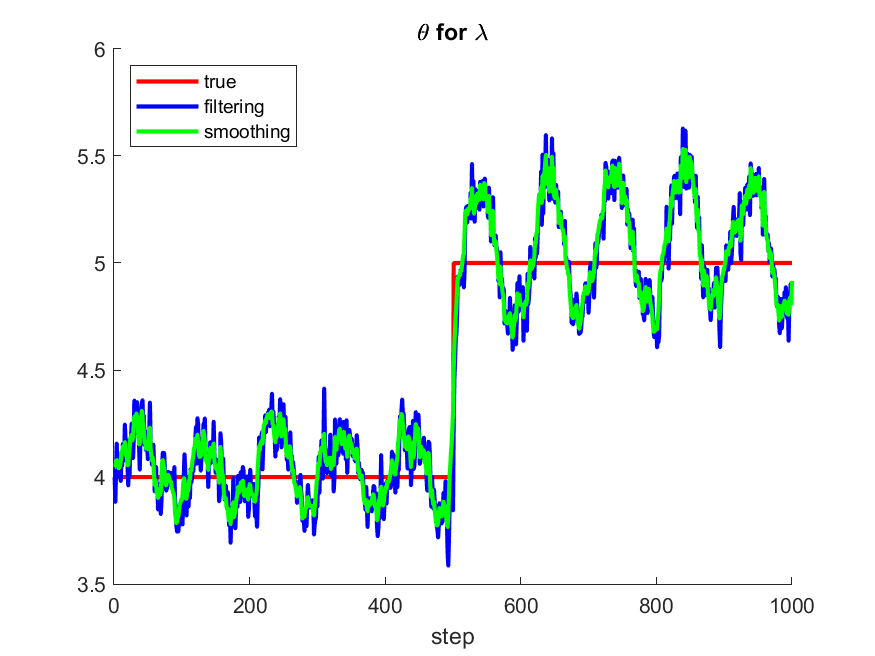
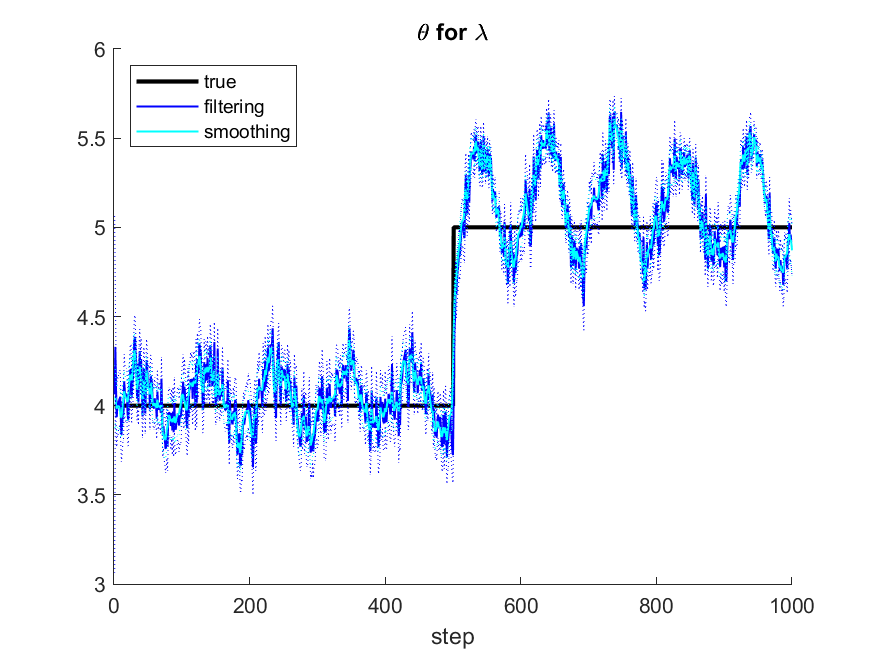
newton initial

diff --git a/demo.m b/demo.m
@@ -1,4 +1,4 @@
-rng(123)
+rng(12)
 
 %% demo 1: step lambda + step nu
 T = 10;
@@ -56,11 +56,11 @@ plot(theo_mlogy)
 hold off
 
 [theta_fit1,W_fit1] =...
-    ppafilt_compoisson(spk_vec,X_lam,G_nu,theta_true(1, :)',...
+    ppafilt_compoisson(spk_vec,X_lam,G_nu,...
     eye(2),eye(2),dt*eye(2),dt);
 
 [theta_fit2,W_fit2] =...
-    ppasmoo_compoisson(spk_vec,X_lam,G_nu,theta_true(1, :)',...
+    ppasmoo_compoisson(spk_vec,X_lam,G_nu,...
     eye(2),eye(2),dt*eye(2),dt);
 
 lam_fit1 = exp(X_lam.*theta_fit1(1, :)');
@@ -70,10 +70,14 @@ nu_fit2 = exp(G_nu.*theta_fit2(2, :)');
 
 theta1 = figure;
 hold on
-plot(theta_true(:, 1), 'r', 'LineWidth', 2)
-plot(theta_fit1(1, :), 'b', 'LineWidth', 2)
-plot(theta_fit2(1, :), 'g', 'LineWidth', 2)
-legend('true', 'filtering', 'smoothing', 'Location','northwest')
+l1 = plot(theta_true(:, 1), 'k', 'LineWidth', 2);
+l2 = plot(theta_fit1(1, :), 'b', 'LineWidth', 1);
+l3 = plot(theta_fit2(1, :), 'c', 'LineWidth', 1);
+plot(theta_fit1(1, :) + sqrt(squeeze(W_fit1(1, 1, :)))', 'b:', 'LineWidth', .5)
+plot(theta_fit1(1, :) - sqrt(squeeze(W_fit1(1, 1, :)))', 'b:', 'LineWidth', .5)
+plot(theta_fit2(1, :) + sqrt(squeeze(W_fit2(1, 1, :)))', 'c:', 'LineWidth', .5)
+plot(theta_fit2(1, :) - sqrt(squeeze(W_fit2(1, 1, :)))', 'c:', 'LineWidth', .5)
+legend([l1 l2 l3], 'true', 'filtering', 'smoothing', 'Location','northwest');
 title('\theta for \lambda')
 xlabel('step')
 hold off
@@ -81,10 +85,14 @@ saveas(theta1, 'theta1_1.png')
 
 theta2 = figure;
 hold on
-plot(theta_true(:, 2), 'r', 'LineWidth', 2)
-plot(theta_fit1(2, :), 'b', 'LineWidth', 2)
-plot(theta_fit2(2, :), 'g', 'LineWidth', 2)
-legend('true', 'filtering', 'smoothing', 'Location','northwest')
+l1 = plot(theta_true(:, 2), 'k', 'LineWidth', 2);
+l2 = plot(theta_fit1(2, :), 'b', 'LineWidth', 1);
+l3 = plot(theta_fit2(2, :), 'c', 'LineWidth', 1);
+plot(theta_fit1(2, :) + sqrt(squeeze(W_fit1(2, 2, :)))', 'b:', 'LineWidth', .5)
+plot(theta_fit1(2, :) - sqrt(squeeze(W_fit1(2, 2, :)))', 'b:', 'LineWidth', .5)
+plot(theta_fit2(2, :) + sqrt(squeeze(W_fit2(2, 2, :)))', 'c:', 'LineWidth', .5)
+plot(theta_fit2(2, :) - sqrt(squeeze(W_fit2(2, 2, :)))', 'c:', 'LineWidth', .5)
+legend([l1 l2 l3], 'true', 'filtering', 'smoothing', 'Location','northwest');
 title('\theta for \nu')
 xlabel('step')
 hold off
@@ -93,9 +101,9 @@ saveas(theta2, 'theta2_1.png')
 
 lambda = figure;
 hold on
-plot(lam_true*dt, 'r', 'LineWidth', 2)
-plot(lam_fit1*dt, 'b', 'LineWidth', 2)
-plot(lam_fit2*dt, 'g', 'LineWidth', 2)
+plot(lam_true*dt, 'k', 'LineWidth', 2)
+plot(lam_fit1*dt, 'r', 'LineWidth', 1)
+plot(lam_fit2*dt,'color', [0.9290, 0.6940, 0.1250], 'LineWidth', 1)
 legend('true', 'filtering', 'smoothing', 'Location','northwest')
 title('\lambda\Delta t')
 xlabel('step')
@@ -104,9 +112,9 @@ saveas(lambda, 'lambda_1.png')
 
 nu = figure;
 hold on
-plot(nu_true*dt, 'r', 'LineWidth', 2)
-plot(nu_fit1*dt, 'b', 'LineWidth', 2)
-plot(nu_fit2*dt, 'g', 'LineWidth', 2)
+plot(nu_true*dt, 'k', 'LineWidth', 2)
+plot(nu_fit1*dt, 'r', 'LineWidth', 1)
+plot(nu_fit2*dt,'color', [0.9290, 0.6940, 0.1250], 'LineWidth', 1)
 legend('true', 'filtering', 'smoothing', 'Location','northwest')
 title('\nu\Delta t')
 xlabel('step')
@@ -136,11 +144,11 @@ for k = 1:(T/dt)
 end
 
 [theta_fit1,W_fit1] =...
-    ppafilt_compoisson(spk_vec,X_lam,G_nu,theta_true(1, :)',...
+    ppafilt_compoisson(spk_vec,X_lam,G_nu,...
     eye(2),eye(2),dt*eye(2),dt);
 
 [theta_fit2,W_fit2] =...
-    ppasmoo_compoisson(spk_vec,X_lam,G_nu,theta_true(1, :)',...
+    ppasmoo_compoisson(spk_vec,X_lam,G_nu,...
     eye(2),eye(2),dt*eye(2),dt);
 
 lam_fit1 = exp(X_lam.*theta_fit1(1, :)');
@@ -150,10 +158,14 @@ nu_fit2 = exp(G_nu.*theta_fit2(2, :)');
 
 theta1 = figure;
 hold on
-plot(theta_true(:, 1), 'r', 'LineWidth', 2)
-plot(theta_fit1(1, :), 'b', 'LineWidth', 2)
-plot(theta_fit2(1, :), 'g', 'LineWidth', 2)
-legend('true', 'filtering', 'smoothing', 'Location','northwest')
+l1 = plot(theta_true(:, 1), 'k', 'LineWidth', 2);
+l2 = plot(theta_fit1(1, :), 'b', 'LineWidth', 1);
+l3 = plot(theta_fit2(1, :), 'c', 'LineWidth', 1);
+plot(theta_fit1(1, :) + sqrt(squeeze(W_fit1(1, 1, :)))', 'b:', 'LineWidth', .5)
+plot(theta_fit1(1, :) - sqrt(squeeze(W_fit1(1, 1, :)))', 'b:', 'LineWidth', .5)
+plot(theta_fit2(1, :) + sqrt(squeeze(W_fit2(1, 1, :)))', 'c:', 'LineWidth', .5)
+plot(theta_fit2(1, :) - sqrt(squeeze(W_fit2(1, 1, :)))', 'c:', 'LineWidth', .5)
+legend([l1 l2 l3], 'true', 'filtering', 'smoothing', 'Location','northwest');
 title('\theta for \lambda')
 xlabel('step')
 hold off
@@ -161,10 +173,14 @@ saveas(theta1, 'theta1_2.png')
 
 theta2 = figure;
 hold on
-plot(theta_true(:, 2), 'r', 'LineWidth', 2)
-plot(theta_fit1(2, :), 'b', 'LineWidth', 2)
-plot(theta_fit2(2, :), 'g', 'LineWidth', 2)
-legend('true', 'filtering', 'smoothing', 'Location','northwest')
+l1 = plot(theta_true(:, 2), 'k', 'LineWidth', 2);
+l2 = plot(theta_fit1(2, :), 'b', 'LineWidth', 1);
+l3 = plot(theta_fit2(2, :), 'c', 'LineWidth', 1);
+plot(theta_fit1(2, :) + sqrt(squeeze(W_fit1(2, 2, :)))', 'b:', 'LineWidth', .5)
+plot(theta_fit1(2, :) - sqrt(squeeze(W_fit1(2, 2, :)))', 'b:', 'LineWidth', .5)
+plot(theta_fit2(2, :) + sqrt(squeeze(W_fit2(2, 2, :)))', 'c:', 'LineWidth', .5)
+plot(theta_fit2(2, :) - sqrt(squeeze(W_fit2(2, 2, :)))', 'c:', 'LineWidth', .5)
+legend([l1 l2 l3], 'true', 'filtering', 'smoothing', 'Location','northwest');
 title('\theta for \nu')
 xlabel('step')
 hold off
@@ -173,9 +189,9 @@ saveas(theta2, 'theta2_2.png')
 
 lambda = figure;
 hold on
-plot(lam_true*dt, 'r', 'LineWidth', 2)
-plot(lam_fit1*dt, 'b', 'LineWidth', 2)
-plot(lam_fit2*dt, 'g', 'LineWidth', 2)
+plot(lam_true*dt, 'k', 'LineWidth', 2)
+plot(lam_fit1*dt, 'r', 'LineWidth', 1)
+plot(lam_fit2*dt,'color', [0.9290, 0.6940, 0.1250], 'LineWidth', 1)
 legend('true', 'filtering', 'smoothing', 'Location','northwest')
 title('\lambda\Delta t')
 xlabel('step')
@@ -184,9 +200,9 @@ saveas(lambda, 'lambda_2.png')
 
 nu = figure;
 hold on
-plot(nu_true*dt, 'r', 'LineWidth', 2)
-plot(nu_fit1*dt, 'b', 'LineWidth', 2)
-plot(nu_fit2*dt, 'g', 'LineWidth', 2)
+plot(nu_true*dt, 'k', 'LineWidth', 2)
+plot(nu_fit1*dt, 'r', 'LineWidth', 1)
+plot(nu_fit2*dt,'color', [0.9290, 0.6940, 0.1250], 'LineWidth', 1)
 legend('true', 'filtering', 'smoothing', 'Location','northwest')
 title('\nu\Delta t')
 xlabel('step')
@@ -220,11 +236,11 @@ for k = 1:(T/dt)
 end
 
 [theta_fit1,W_fit1] =...
-    ppafilt_compoisson(spk_vec,X_lam,G_nu,theta_true(1, :)',...
+    ppafilt_compoisson(spk_vec,X_lam,G_nu,...
     eye(2),eye(2),dt*eye(2),dt);
 
 [theta_fit2,W_fit2] =...
-    ppasmoo_compoisson(spk_vec,X_lam,G_nu,theta_true(1, :)',...
+    ppasmoo_compoisson(spk_vec,X_lam,G_nu,...
     eye(2),eye(2),dt*eye(2),dt);
 
 lam_fit1 = exp(X_lam.*theta_fit1(1, :)');
@@ -234,10 +250,14 @@ nu_fit2 = exp(G_nu.*theta_fit2(2, :)');
 
 theta1 = figure;
 hold on
-plot(theta_true(:, 1), 'r', 'LineWidth', 2)
-plot(theta_fit1(1, :), 'b', 'LineWidth', 2)
-plot(theta_fit2(1, :), 'g', 'LineWidth', 2)
-legend('true', 'filtering', 'smoothing', 'Location','northwest')
+l1 = plot(theta_true(:, 1), 'k', 'LineWidth', 2);
+l2 = plot(theta_fit1(1, :), 'b', 'LineWidth', 1);
+l3 = plot(theta_fit2(1, :), 'c', 'LineWidth', 1);
+plot(theta_fit1(1, :) + sqrt(squeeze(W_fit1(1, 1, :)))', 'b:', 'LineWidth', .5)
+plot(theta_fit1(1, :) - sqrt(squeeze(W_fit1(1, 1, :)))', 'b:', 'LineWidth', .5)
+plot(theta_fit2(1, :) + sqrt(squeeze(W_fit2(1, 1, :)))', 'c:', 'LineWidth', .5)
+plot(theta_fit2(1, :) - sqrt(squeeze(W_fit2(1, 1, :)))', 'c:', 'LineWidth', .5)
+legend([l1 l2 l3], 'true', 'filtering', 'smoothing', 'Location','northwest');
 title('\theta for \lambda')
 xlabel('step')
 hold off
@@ -245,10 +265,14 @@ saveas(theta1, 'theta1_3.png')
 
 theta2 = figure;
 hold on
-plot(theta_true(:, 2), 'r', 'LineWidth', 2)
-plot(theta_fit1(2, :), 'b', 'LineWidth', 2)
-plot(theta_fit2(2, :), 'g', 'LineWidth', 2)
-legend('true', 'filtering', 'smoothing', 'Location','northwest')
+l1 = plot(theta_true(:, 2), 'k', 'LineWidth', 2);
+l2 = plot(theta_fit1(2, :), 'b', 'LineWidth', 1);
+l3 = plot(theta_fit2(2, :), 'c', 'LineWidth', 1);
+plot(theta_fit1(2, :) + sqrt(squeeze(W_fit1(2, 2, :)))', 'b:', 'LineWidth', .5)
+plot(theta_fit1(2, :) - sqrt(squeeze(W_fit1(2, 2, :)))', 'b:', 'LineWidth', .5)
+plot(theta_fit2(2, :) + sqrt(squeeze(W_fit2(2, 2, :)))', 'c:', 'LineWidth', .5)
+plot(theta_fit2(2, :) - sqrt(squeeze(W_fit2(2, 2, :)))', 'c:', 'LineWidth', .5)
+legend([l1 l2 l3], 'true', 'filtering', 'smoothing', 'Location','northwest');
 title('\theta for \nu')
 xlabel('step')
 hold off
@@ -257,9 +281,9 @@ saveas(theta2, 'theta2_3.png')
 
 lambda = figure;
 hold on
-plot(lam_true*dt, 'r', 'LineWidth', 2)
-plot(lam_fit1*dt, 'b', 'LineWidth', 2)
-plot(lam_fit2*dt, 'g', 'LineWidth', 2)
+plot(lam_true*dt, 'k', 'LineWidth', 2)
+plot(lam_fit1*dt, 'r', 'LineWidth', 1)
+plot(lam_fit2*dt,'color', [0.9290, 0.6940, 0.1250], 'LineWidth', 1)
 legend('true', 'filtering', 'smoothing', 'Location','northwest')
 title('\lambda\Delta t')
 xlabel('step')
@@ -268,9 +292,9 @@ saveas(lambda, 'lambda_3.png')
 
 nu = figure;
 hold on
-plot(nu_true*dt, 'r', 'LineWidth', 2)
-plot(nu_fit1*dt, 'b', 'LineWidth', 2)
-plot(nu_fit2*dt, 'g', 'LineWidth', 2)
+plot(nu_true*dt, 'k', 'LineWidth', 2)
+plot(nu_fit1*dt, 'r', 'LineWidth', 1)
+plot(nu_fit2*dt,'color', [0.9290, 0.6940, 0.1250], 'LineWidth', 1)
 legend('true', 'filtering', 'smoothing', 'Location','northwest')
 title('\nu\Delta t')
 xlabel('step')

diff --git a/com_gradHess.m b/com_gradHess.m
@@ -1,0 +1,33 @@
+function [grad, hess] = com_gradHess(y, theta, x_lam, g_nu, dt)
+
+nCell = length(y);
+np_lam = length(x_lam);
+lam = exp(x_lam*theta(1:np_lam));
+nu = exp(g_nu*theta((np_lam+1):end));
+
+cum_app = sum_calc(lam*dt, nu*dt, 2*nCell);
+Z = cum_app(1);
+A = cum_app(2);
+B = cum_app(3);
+C = cum_app(4);
+D = cum_app(5);
+E = cum_app(6);
+
+lam1 = A/Z;
+lam2 = B/Z - lam1^2;
+nu1 = -nu*dt*C/Z;
+nu2 = ((nu*dt)^2*D)/Z + nu1 - nu1^2;
+lamnu = nu*dt*(C*A/(Z^2) - E/Z);
+
+sum_logfac = sum(gammaln(y + 1));
+
+w1 = nCell*lam2*(x_lam'*x_lam);
+w2 = lamnu*(x_lam'*g_nu);
+w3 = lamnu*(g_nu'*x_lam);
+w4 = (nu*dt*sum_logfac + nCell*nu2)*(g_nu'*g_nu);
+
+hess = -[w1, w2; w3, w4];
+grad = [(sum(y)- nCell*lam1)*x_lam';...
+        -(nu*dt*sum_logfac + nCell*nu1)*g_nu'];
+
+return

diff --git a/nf_initial.m b/nf_initial.m
@@ -1,0 +1,28 @@
+function [theta] = nf_initial(y, x_lam, g_nu, dt)
+
+maxIter = 100000;
+tol = 1e-12;
+
+% start by well-known approximation:
+% (review paper: https://onlinelibrary.wiley.com/doi/10.1002/wics.1533)
+% E(Y) = lam^(1/nu) - (nu-1)/2*nu
+% Var(Y) = lam^(1/nu)/nu
+
+% ignoring (nu-1)/2*nu in E(Y) yields
+% nu = E(Y)/Var(Y) = mean(Y)/var(Y)
+theta0 = [((x_lam*x_lam')^-1)*x_lam*(log(mean(y)) - log(dt));...
+    ((g_nu*g_nu')^-1)*g_nu*(log(mean(y)) -log(var(y)) - log(dt))];
+
+thetaPre = theta0;
+for k = 1:maxIter
+    [grad, hess] = com_gradHess(y, thetaPre, x_lam, g_nu, dt);
+    theta = thetaPre - inv(hess)*grad;
+    e = sum((theta - thetaPre).^2);
+    thetaPre = theta;
+    if e < tol
+        break
+    end
+end
+
+
+end

diff --git a/com_mle.m b/com_mle.m
@@ -1,0 +1,27 @@
+function[theta] = com_mle(y, theta_lam0, theta_nu0, X_lam, G_nu, dt)
+
+maxIter = 10000;
+tol = 1e-12;
+
+theta_lam_pre = theta_lam0;
+theta_nu_pre = theta_nu0;
+e = Inf;
+lam
+for k = 1:maxIter
+    
+    lam_pre = exp(X_lam(1, :).*theta_lam_pre)*dt;
+    nu_pre = exp(G_nu(1, :).*theta_nu_pre)*dt;
+    
+    [grad, hess] = com_gradHess(y, lam_pre, nu_pre);
+    [lam; nu] = [log(lam_pre); nu_pre] - inv(hess)*grad;
+    e = sum((thetapre - theta).^2);
+    thetapre = theta;
+    if e < tol
+        break
+    end
+end
+
+
+
+
+end

diff --git a/ppasmoo_compoisson.m b/ppasmoo_compoisson.m
@@ -1,9 +1,12 @@
-function [theta,W] = ppasmoo_compoisson(N,X_lam,G_nu,theta0,W0,F,Q,dt)
+function [theta,W] = ppasmoo_compoisson(N,X_lam,G_nu,W0,F,Q,dt)
+
+% newton raphson
+theta0 = nf_initial(N(:, 1), X_lam(1,:), G_nu(1,:), dt);
 
 
 n_spk = size(N, 2);
 nCell = size(N, 1);
-maxSum = n_spk; % max number for sum estimation;
+maxSum = 5*n_spk; % max number for sum estimation;
 
 % Preallocate
 theta   = zeros(length(theta0), n_spk);

diff --git a/com_llhd.m b/com_llhd.m
@@ -1,0 +1,18 @@
+function[llhd] = com_llhd(y, lambda, nu)
+
+summax = 1000; 
+termlim = 1e-12;
+Z = 0;
+for js = 1:summax
+    term = exp((js-1)*log(lambda) - nu*gammaln(js));
+    if(js > 3)
+        if((term/Z) < termlim)
+            break
+        end
+    end
+    Z = Z + term;
+end
+
+llhd = log(lambda)*sum(y) - nu*sum(gammaln(y + 1)) - length(y)*Z;
+
+return

diff --git a/ppafilt_compoisson.m b/ppafilt_compoisson.m
@@ -1,4 +1,7 @@
-function [theta,W] = ppafilt_compoisson(N,X_lam,G_nu,theta0,W0,F,Q,dt)
+function [theta,W] = ppafilt_compoisson(N,X_lam,G_nu,W0,F,Q,dt)
+
+% newton raphson
+theta0 = nf_initial(N(:, 1), X_lam(1,:), G_nu(1,:), dt);
 
 
 n_spk = size(N, 2);

diff --git a/debuger.m b/debuger.m
@@ -1,8 +1,11 @@
 N = spk_vec;
-theta0 = theta_true(1, :)';
 W0 = eye(2);
 F = eye(2);
 Q = ones(2,2);
+
+y = N(:, 1);
+x_lam = X_lam(1,:);
+g_nu = G_nu(1,:);
 
 
 -nu(i)*dt*sum_logfac + nCell*nu(i)*dt*C/Z

diff --git a/README.md b/README.md
@@ -20,10 +20,8 @@ Here, I showed 3 examples:
 
 
 Well, all looks good (although lambda for example 3 is not super ideal).
-Here's one problem. The algorithm is very easy to get singular matrix. That means, it correct "too hard"... Maybe we can add some constraint for theta updating? Maybe that will make the W matrix meaningless...
-Also, I need to mention that the initial value is set as theta_true(1,:). The same reason: arbitrary initial value may make the algorithm get singular matrix.
+Here's one problem. Basically, I initialized the value by Newton-Raphson. However, it's quite unstable... The Hessian will be singular in some cases. Maybe we can think of using IRLS? The same problem occurs for filtering/ smoothing, if initialized with a bad value... (there are tons of research about this, we can just use them)
 
-Maybe this is because when nu -> 0, the estimation of summation such as Z,... will shoot to inifinity.
 
 Another issue is that the updating of lambda is influenced by nu a lot (especially in example 3, because of bad simulation?). Maybe we can consider to reparametrize to mu and nu, where E(Y) = mu*(Delta t)? Then since mu and nu are orthogonal, that would be better. (https://journals.sagepub.com/doi/abs/10.1177/1471082X17697749)
 
